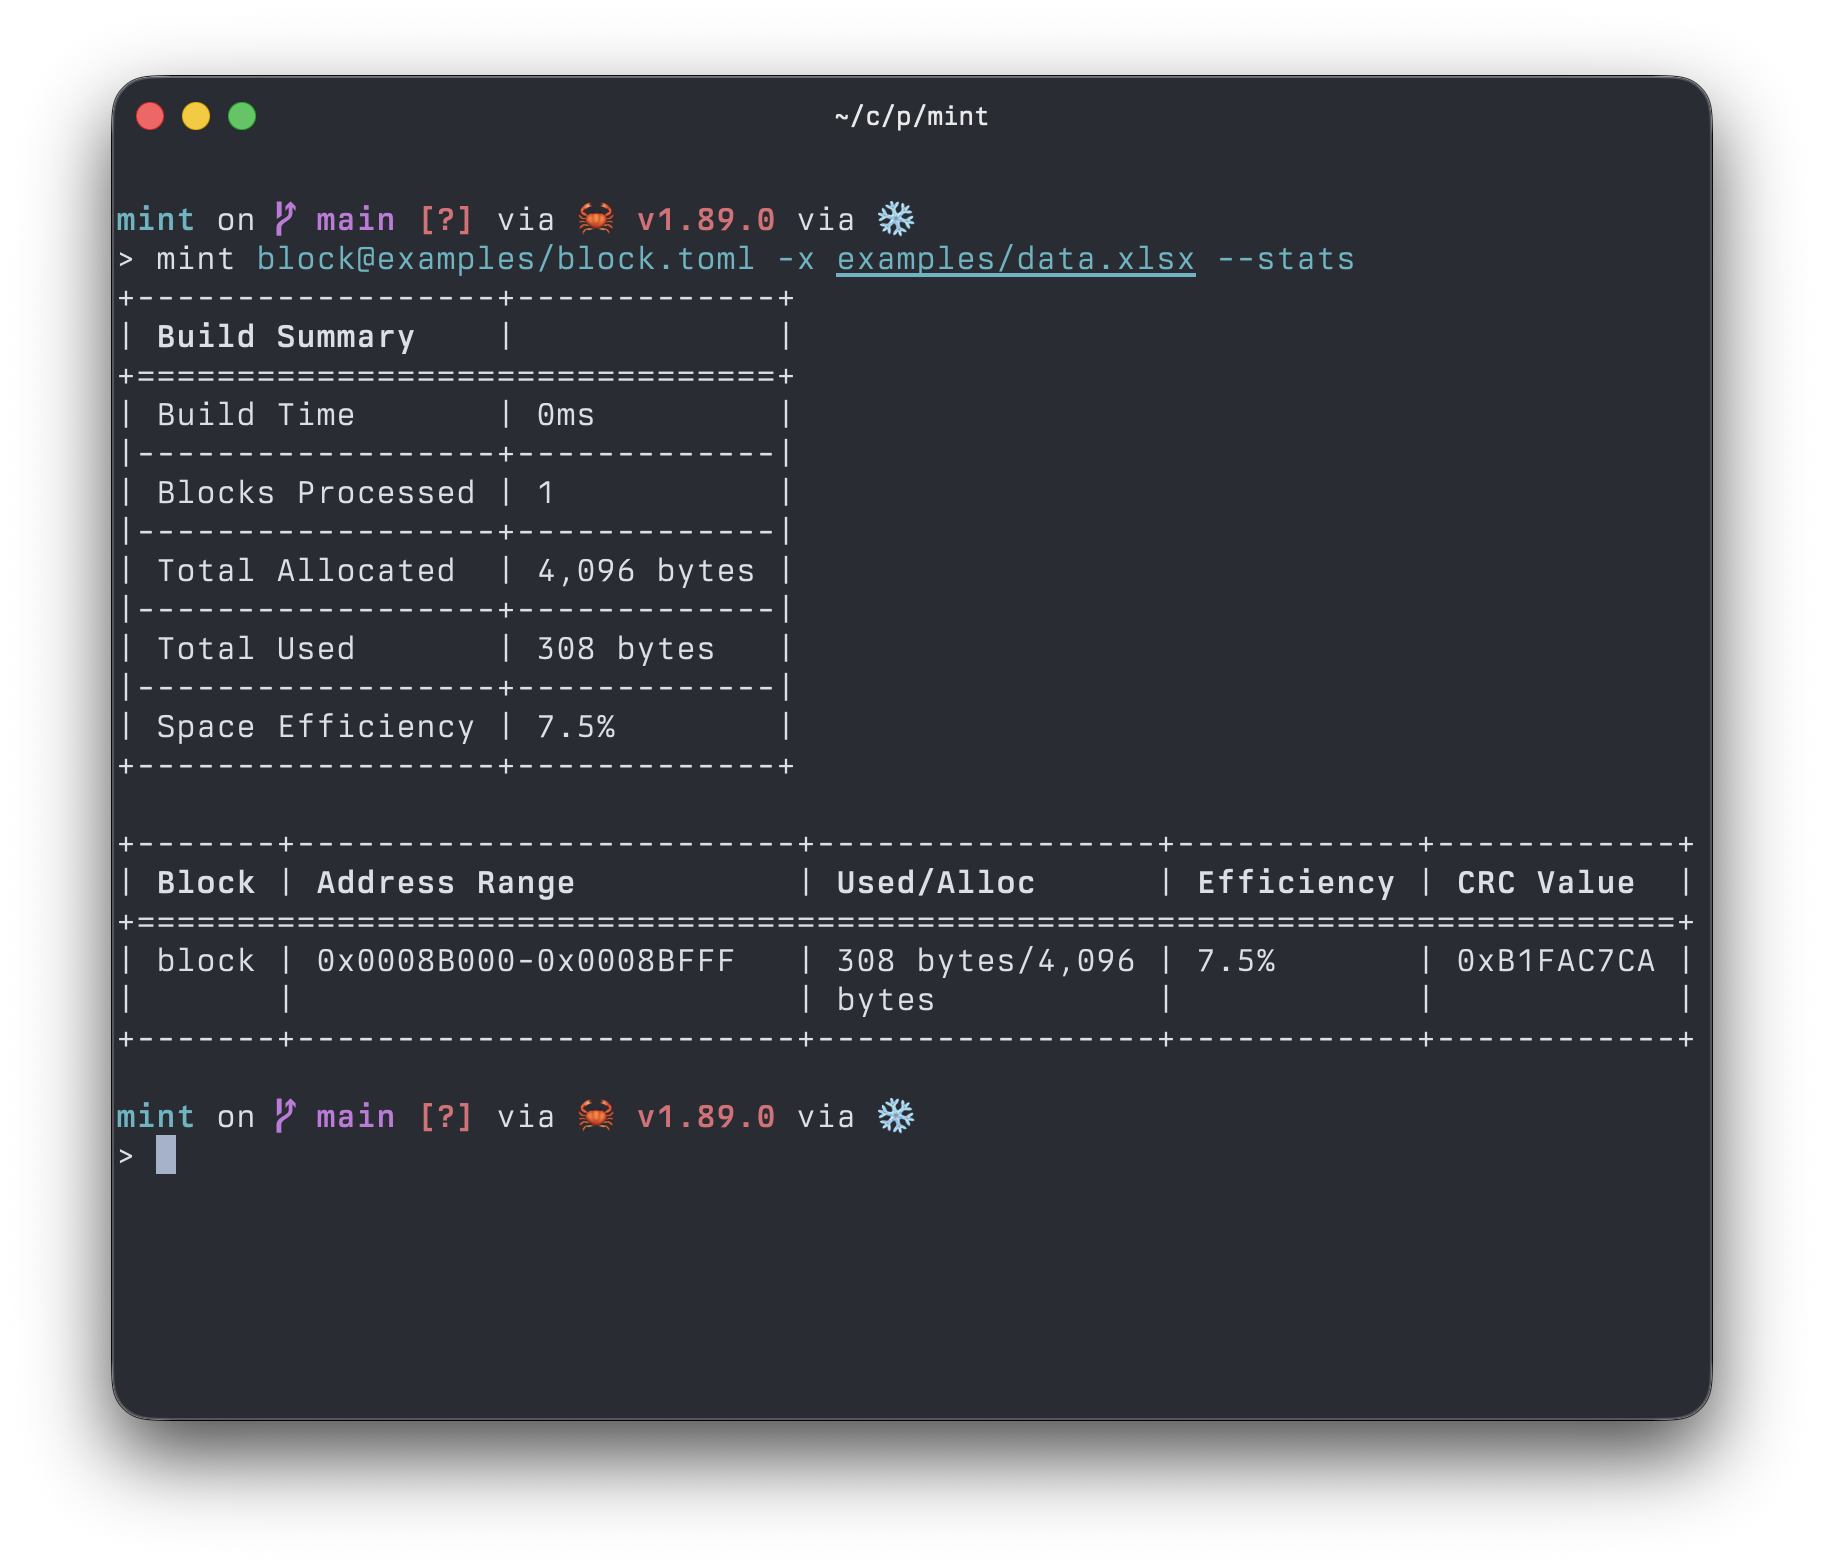
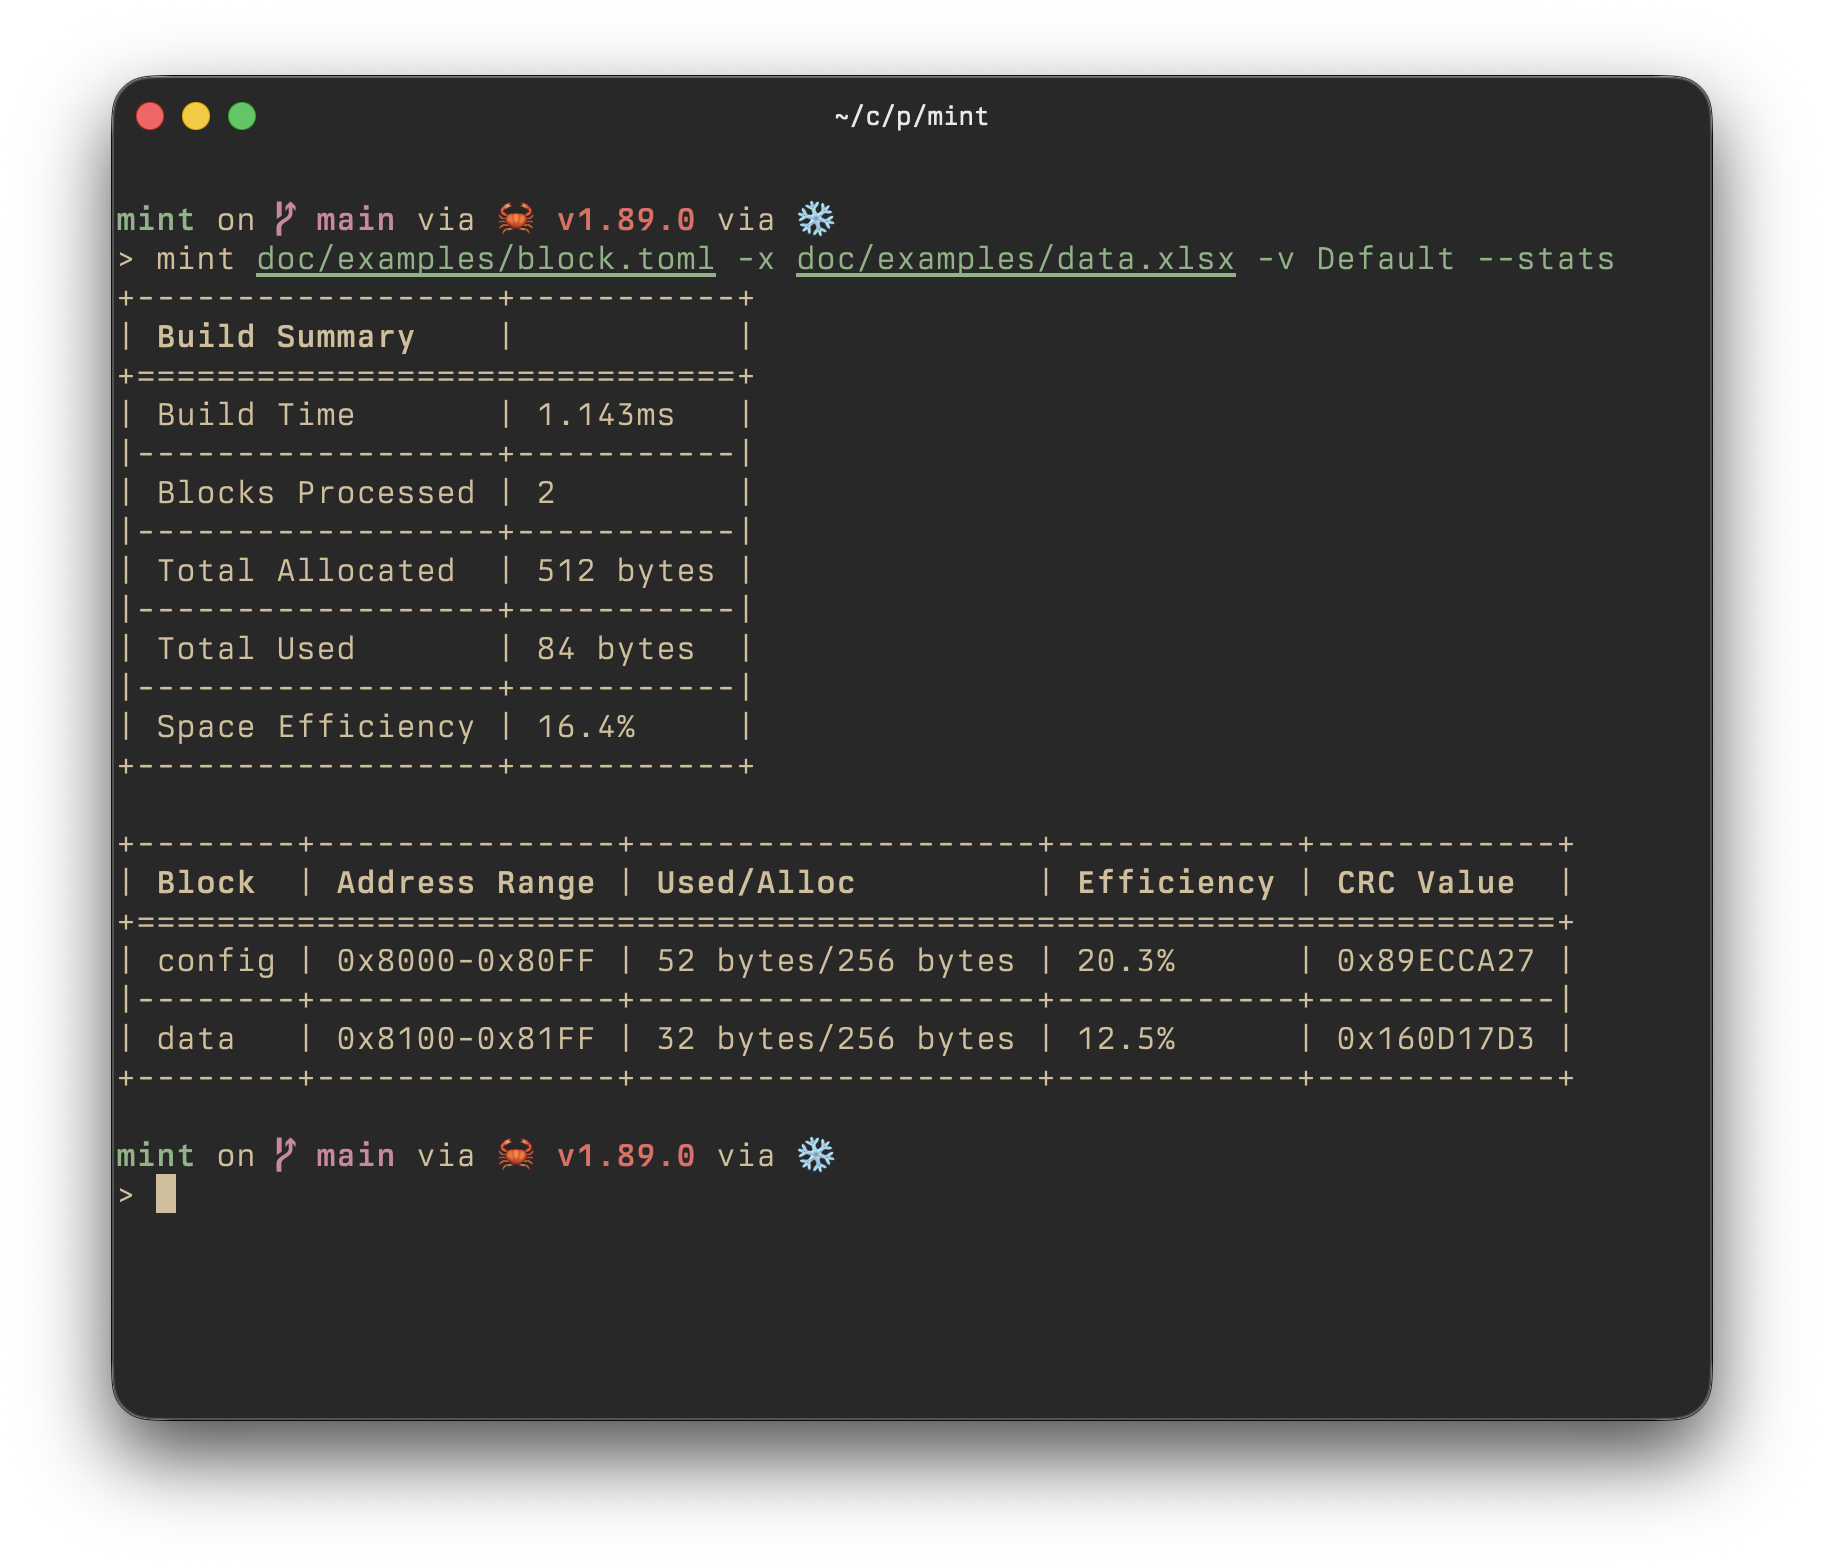
fixing readme image (#23)
* nicer address formatting

* new image

diff --git a/src/visuals/formatters.rs b/src/visuals/formatters.rs
@@ -14,7 +14,7 @@ pub fn format_bytes(bytes: usize) -> String {
 
 pub fn format_address_range(start: u32, allocated: u32) -> String {
     let end = start + allocated - 1;
-    format!("0x{:08X}-0x{:08X}", start, end)
+    format!("0x{:X}-0x{:X}", start, end)
 }
 
 pub fn format_efficiency(used: u32, allocated: u32) -> String {
